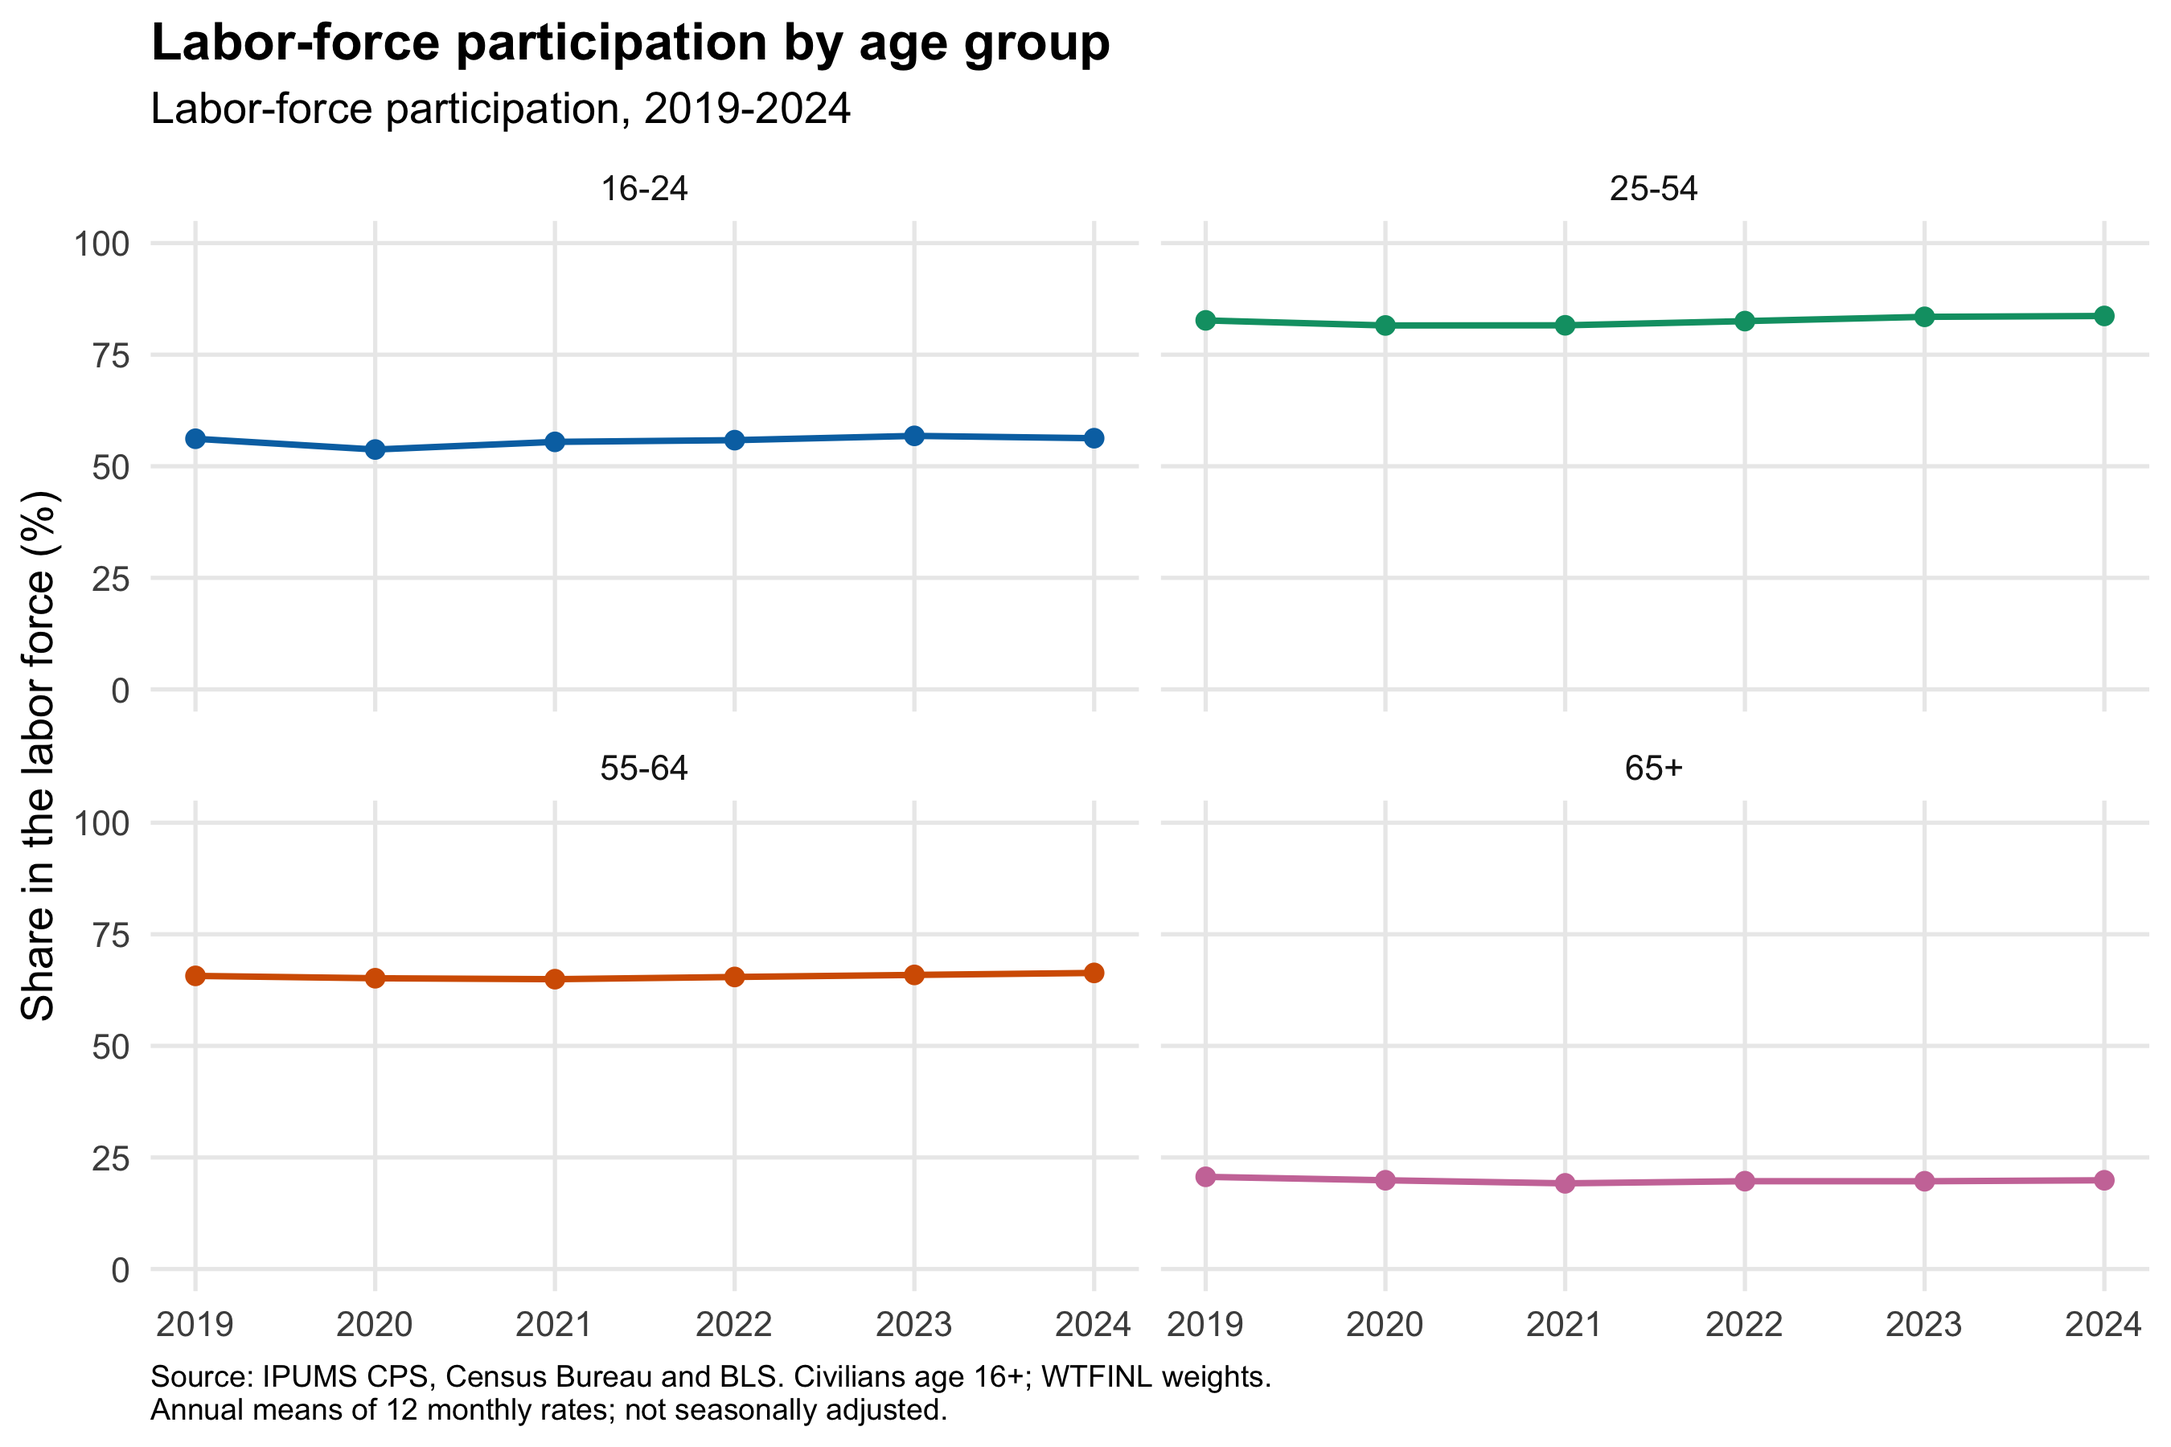
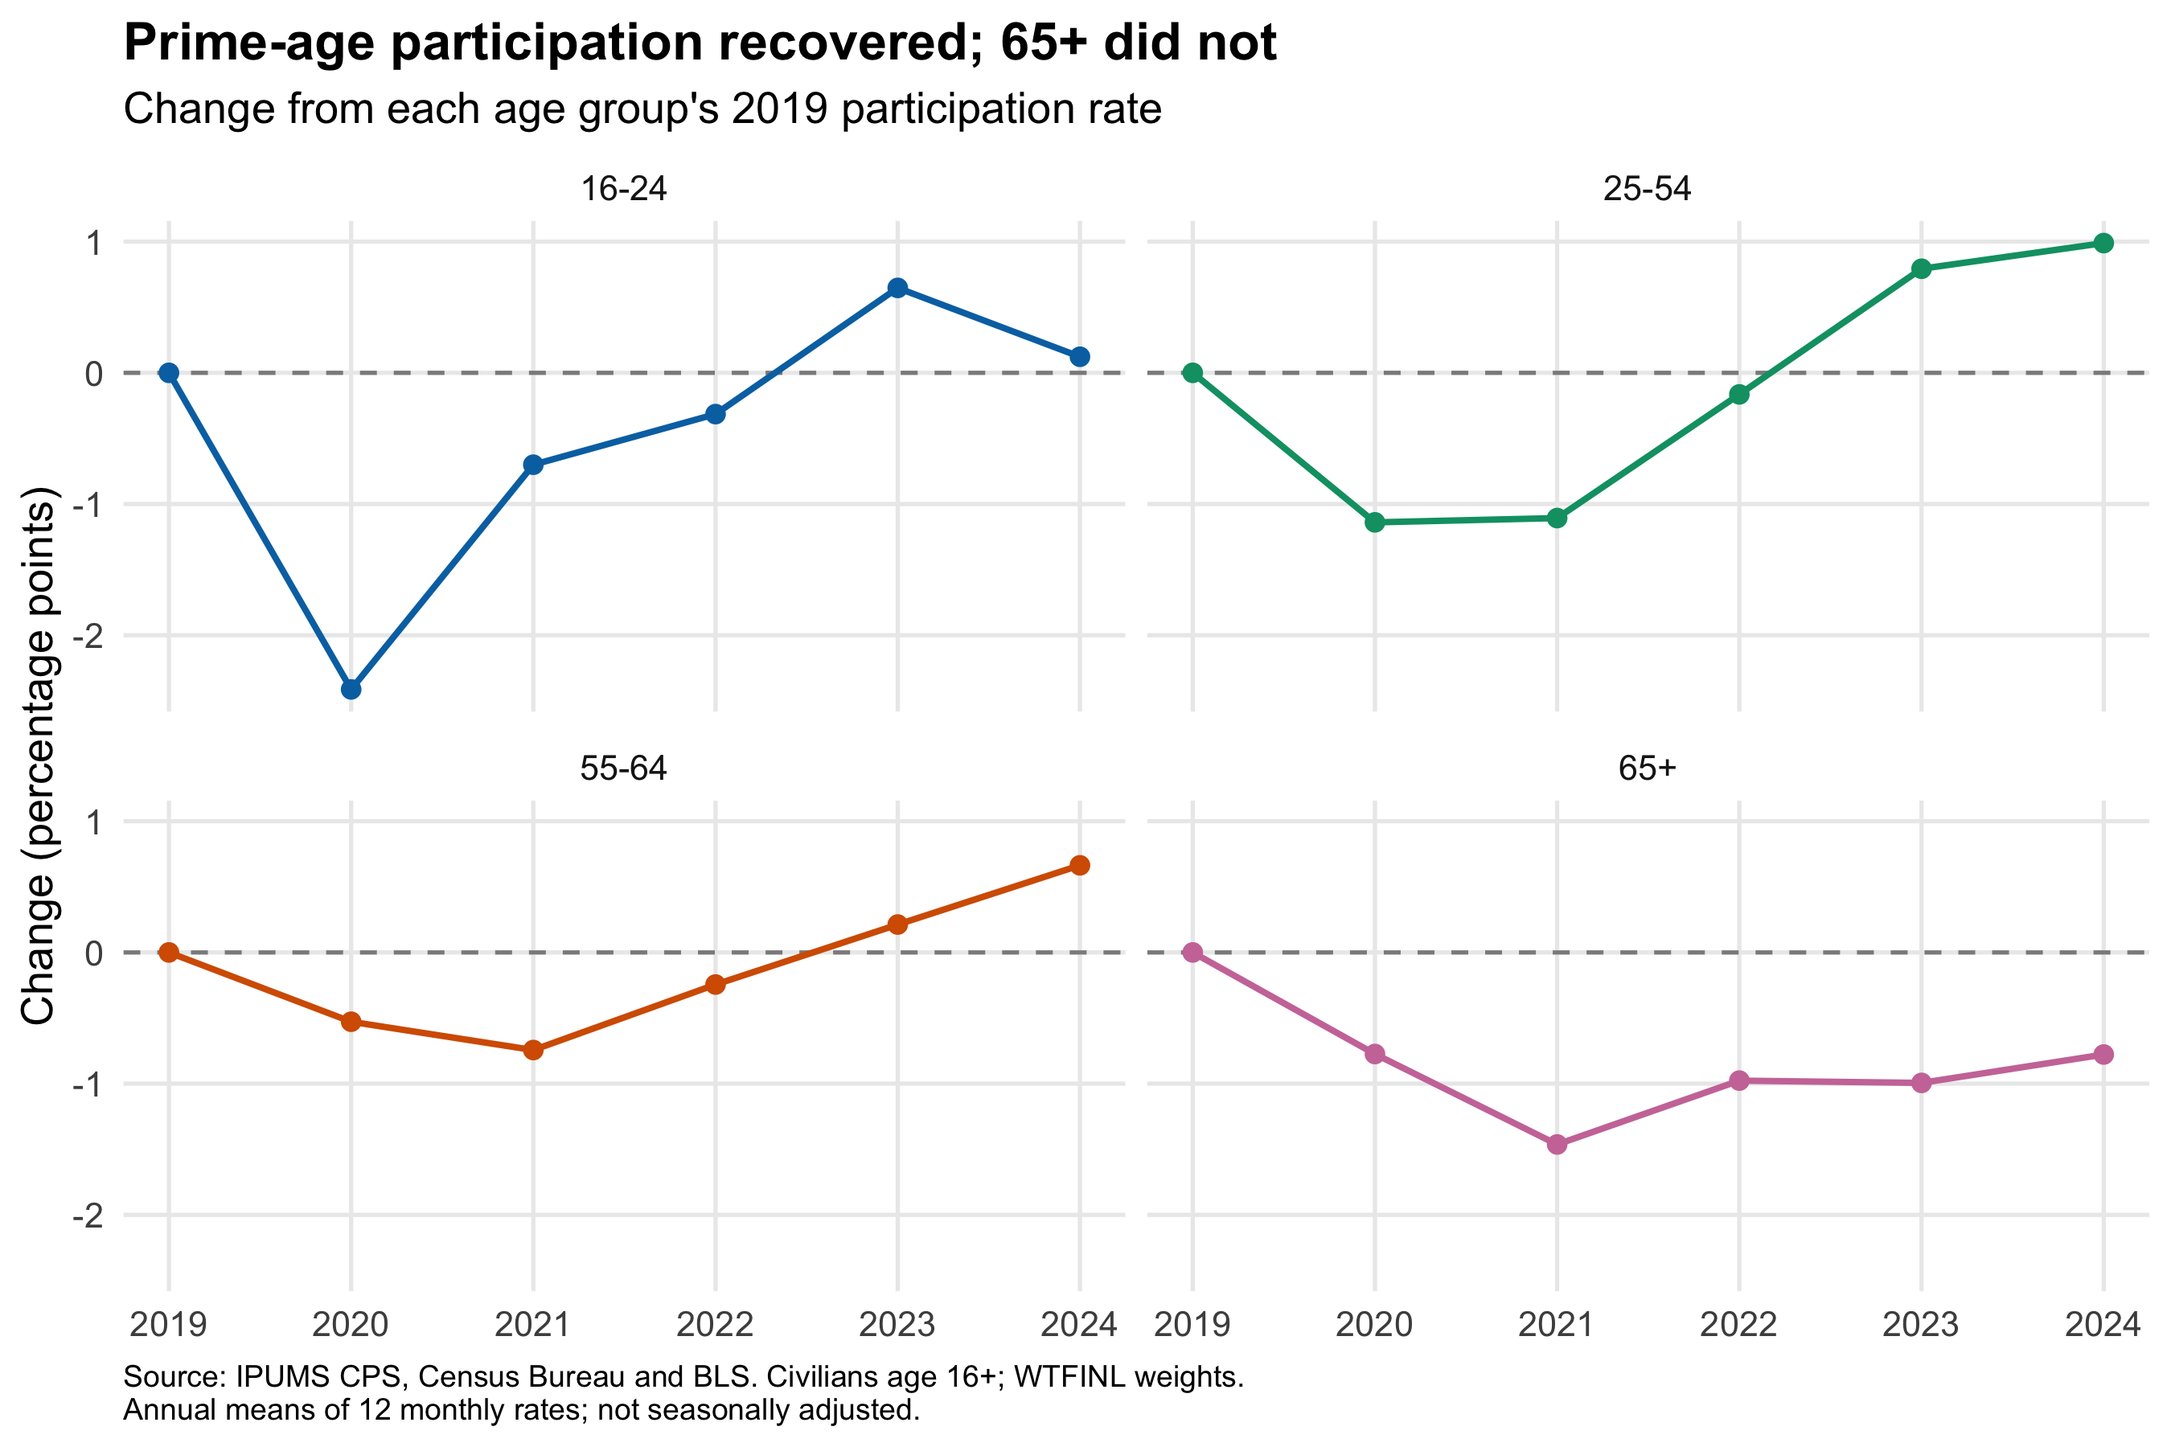
Address Blog Post 3 rubric: computed values, clearer trends, replication docs

diff --git a/docs/posts/cps-participation/index.html b/docs/posts/cps-participation/index.html
@@ -212,30 +212,30 @@ pre > code.sourceCode > span > a:first-child::before { text-decoration: underlin
 <section id="measuring-participation-consistently" class="level2">
 <h2 class="anchored" data-anchor-id="measuring-participation-consistently">Measuring participation consistently</h2>
 <p>Labor-market participation is measured in a consistent way. The analysis includes all 72 Basic Monthly CPS samples from January 2019 through December 2024. It includes civilians age 16 or older with a defined labor-force status and a positive sampling weight. It includes March Basic but excludes the separate ASEC supplement.</p>
-<p>For each month and age group, I divide the weighted number in the labor force by the weighted eligible population. I use <a href="https://cps.ipums.org/cps-action/variables/WTFINL">WTFINL</a>, the Basic Monthly person weight, so observations represent different numbers of people. <a href="https://cps.ipums.org/cps-action/variables/LABFORCE">LABFORCE</a> identifies participation. Each annual estimate then averages the twelve monthly rates equally. These are descriptive, unadjusted estimates, not seasonally adjusted headline statistics.</p>
+<p>For each month and age group, I divide the weighted number in the labor force by the weighted eligible population. I use <a href="https://cps.ipums.org/cps-action/variables/WTFINL">WTFINL</a>, the Basic Monthly person weight, so observations represent different numbers of people. <a href="https://cps.ipums.org/cps-action/variables/LABFORCE">LABFORCE</a> identifies participation. Each annual estimate then averages the twelve monthly rates equally. These are descriptive, unadjusted estimates. IPUMS recommends <a href="https://cps.ipums.org/cps-action/variables/COMPWT">COMPWT</a> for replicating published BLS labor-force estimates; WTFINL is appropriate for most Basic Monthly analyses, so these rates need not match BLS headline figures.</p>
 </section>
-<section id="first-compare-participation-levels" class="level2">
-<h2 class="anchored" data-anchor-id="first-compare-participation-levels">First, compare participation levels</h2>
+<section id="first-compare-recovery-paths" class="level2">
+<h2 class="anchored" data-anchor-id="first-compare-recovery-paths">First, compare recovery paths</h2>
 <div class="cell">
 <details class="code-fold">
 <summary>Code</summary>
 <div class="code-copy-outer-scaffold"><div class="sourceCode cell-code" id="cb1"><pre class="sourceCode r code-with-copy"><code class="sourceCode r"><span id="cb1-1"><a href="#cb1-1" aria-hidden="true" tabindex="-1"></a>knitr<span class="sc">::</span><span class="fu">include_graphics</span>(<span class="fu">file.path</span>(POST_DIR, <span class="st">"results"</span>, <span class="st">"figures"</span>, <span class="st">"trends.png"</span>))</span></code></pre></div><button title="Copy to Clipboard" class="code-copy-button"><i class="bi"></i></button></div>
 </details>
 <div class="cell-output-display">
-<div id="fig-trends" class="quarto-float quarto-figure quarto-figure-center anchored" alt="Four panels showing annual labor-force participation for ages 16-24, 25-54, 55-64, and 65 and older.">
+<div id="fig-trends" class="quarto-float quarto-figure quarto-figure-center anchored" alt="Four panels showing changes in participation from 2019 for four age groups, with a shared scale and a zero baseline.">
 <figure class="quarto-float quarto-float-fig figure">
 <div aria-describedby="fig-trends-caption-0ceaefa1-69ba-4598-a22c-09a6ac19f8ca">
-<img src="results/figures/trends.png" class="img-fluid figure-img" alt="Four panels showing annual labor-force participation for ages 16-24, 25-54, 55-64, and 65 and older.">
+<img src="results/figures/trends.png" class="img-fluid figure-img" alt="Four panels showing changes in participation from 2019 for four age groups, with a shared scale and a zero baseline.">
 </div>
 <figcaption class="quarto-float-caption-bottom quarto-float-caption quarto-float-fig" id="fig-trends-caption-0ceaefa1-69ba-4598-a22c-09a6ac19f8ca">
-Figure&nbsp;1: Annual means of monthly weighted participation rates. Identical vertical scales make age-group levels comparable.
+Figure&nbsp;1: Annual means of monthly weighted participation rates, expressed as changes from 2019. Panels use identical percentage-point scales; zero marks each group’s baseline.
 </figcaption>
 </figure>
 </div>
 </div>
 </div>
-<p>Figure 1 shows participation across four stages of working life. Among adults aged 25–54, participation was 82.7% in 2019 and 83.7% in 2024. For adults aged 65 and older, the corresponding estimates were 20.7% and 19.9%.</p>
-<p>All four groups declined between 2019 and 2020. Their subsequent paths diverged: participation among adults aged 25–54 exceeded its baseline by 2023, while the rate for adults aged 65 and older remained below it throughout 2020–2024. The common vertical scale shows large differences in participation levels; the next figure makes the smaller changes easier to see.</p>
+<p>Figure 1 shows changes from 2019 across four stages of working life. Among adults aged 25–54, participation was 82.7% in 2019 and 83.7% in 2024. For adults aged 65 and older, the corresponding estimates were 20.7% and 19.9%.</p>
+<p>All four groups declined between 2019 and 2020. Their subsequent paths diverged: participation among adults aged 25–54 exceeded its baseline by 2023, while the rate for adults aged 65 and older remained below it throughout 2020–2024. The shared change scale makes the declines and recovery paths visible, but gives up a direct comparison of participation levels. Figure 2 focuses on the final year.</p>
 </section>
 <section id="next-compare-changes-against-the-same-baseline" class="level2">
 <h2 class="anchored" data-anchor-id="next-compare-changes-against-the-same-baseline">Next, compare changes against the same baseline</h2>
@@ -257,7 +257,7 @@ Figure&nbsp;2: Participation in 2024 minus participation in 2019. Zero indicates
 </div>
 </div>
 </div>
-<p>Figure 2 plots each group on a common change metric. Adults aged 25 to 54 recorded the highest rise, roughly 1.0 percentage point. The age group 55–64 saw an increase of 0.7 points, while those aged 16–24 were approximately unchanged, gaining just 0.1 points. Adults aged 65 and older were the only group below their 2019 value, down by 0.8 points.</p>
+<p>Figure 2 plots each group on a common change metric. Adults aged 25 to 54 recorded the highest rise, roughly 1.0 percentage points. The age group 55–64 saw an increase of 0.7 points, while those aged 16–24 were approximately unchanged, gaining just 0.1 points. Adults aged 65 and older were the only group below their 2019 value, down by 0.8 points.</p>
 <p>Thus, recovery was uneven. It would be inaccurate to say that all older adults had the same experience: for instance, the age group 55 to 64 exceeded its baseline while the group aged 65 and older did not. These comparisons describe outcomes, but they do not identify whether retirement, health, schooling, or care responsibilities caused the differences.</p>
 </section>
 <section id="finally-hold-the-age-mix-fixed" class="level2">

diff --git a/docs/index.html b/docs/index.html
@@ -212,10 +212,10 @@ window.Quarto = {
 
 <div class="quarto-listing quarto-listing-container-default" id="listing-listing">
 <div class="list quarto-listing-default">
-<div class="quarto-post image-right" data-index="0" data-categories="bGFib3IlMjBtYXJrZXQlMkNDUFMlMkNkYXRhJTIwdmlzdWFsaXphdGlvbg==" data-listing-date-sort="1790481600000" data-listing-file-modified-sort="1790557504694" data-listing-date-modified-sort="NaN" data-listing-reading-time-sort="5" data-listing-word-count-sort="942">
+<div class="quarto-post image-right" data-index="0" data-categories="bGFib3IlMjBtYXJrZXQlMkNDUFMlMkNkYXRhJTIwdmlzdWFsaXphdGlvbg==" data-listing-date-sort="1790481600000" data-listing-file-modified-sort="1790625836000" data-listing-date-modified-sort="NaN" data-listing-reading-time-sort="6" data-listing-word-count-sort="1032">
 <div class="thumbnail"><a href="./posts/cps-participation/index.html" class="no-external">
 
-<p class="card-img-top"><img loading='lazy' src="posts/cps-participation/results/figures/trends.png" alt="Four panels showing annual labor-force participation for ages 16-24, 25-54, 55-64, and 65 and older."  class="thumbnail-image card-img"/></p>
+<p class="card-img-top"><img loading='lazy' src="posts/cps-participation/results/figures/trends.png" alt="Four panels showing changes in participation from 2019 for four age groups, with a shared scale and a zero baseline."  class="thumbnail-image card-img"/></p>
 
 </a></div>
 <div class="body">

diff --git a/posts/cps-participation/README.md b/posts/cps-participation/README.md
@@ -1,6 +1,6 @@
 # Blog Post 3: Did labor-force participation recover equally across age groups?
 
-Completed analysis of the supplied IPUMS CPS extract, with three figures and a Quarto post. Publication is a separate step.
+This post asks whether labor-force participation returned to its 2019 level equally across age groups. It uses Basic Monthly CPS data from 2019 through 2024 and three figures to connect recovery within age groups to changes in the overall population mix.
 
 ## Reproduce
 
@@ -23,13 +23,15 @@ The first command imports the raw data and regenerates all aggregate tables, fig
 
 The denominator is civilians age 16+ with LABFORCE 1 or 2 and positive finite WTFINL. Monthly participation is `sum(WTFINL * (LABFORCE == 2)) / sum(WTFINL)`. Annual estimates average 12 monthly rates equally. Counts are person-month observations, not unique people. The XML supplies column locations and implied decimal scaling; the importer applies scaling once.
 
-Figure 1 compares age-group levels on common 0–100% axes. Figure 2 compares 2024 with 2019 in percentage points. Figure 3 fixes the four age-group population shares to those of the matching calendar month in 2019, then averages standardized monthly rates. This is a descriptive composition adjustment, not a causal estimate; changes within age bands remain.
+Figure 1 compares changes from each age group’s 2019 rate on common percentage-point axes. This makes recovery paths easier to compare, while the text reports selected participation levels. Figure 2 compares 2024 with 2019 in percentage points. Figure 3 fixes the four age-group population shares to those of the matching calendar month in 2019, then averages standardized monthly rates. This is a descriptive composition adjustment, not a causal estimate; changes within age bands remain.
 
-Validation confirms 72 months, 288 month/age cells, no duplicate YEAR/MONTH/SERIAL/PERNUM identifiers, March Basic flags, no ASEC records, and valid rates. The input has 7,582,963 records; 6,146,546 meet the age/status criteria, all with positive finite weights. Independent streaming calculations from the original data agree with all 24 annual age-group estimates within 1e-12. All three generated charts were visually inspected. These custom estimates are not seasonally adjusted and need not exactly match official BLS series. No statistical significance or causality is claimed.
+Before estimating rates, `analysis.R` checks that all 72 months are present, rejects duplicate YEAR/MONTH/SERIAL/PERNUM identifiers, excludes ASEC records, and requires March Basic flags. It also checks that all month/age cells exist, that rates are finite and between zero and one, and that the observed and standardized series agree in 2019. The sample counts at each filtering step are saved in `results/tables/audit.csv`.
+
+The estimates are not seasonally adjusted and are not intended to reproduce official BLS series. The post describes differences without claiming statistical significance or causality.
 
 ## Data provenance
 
-User-supplied `cps_00001.dat` and `cps_00001.xml`; XML creation date September 27, 2026. The extract covers January 2019–December 2024 Basic Monthly samples. The unchanged raw files are ignored by Git. Data SHA-256:
+The analysis reads `cps_00001.dat` using its matching `cps_00001.xml` codebook, dated September 27, 2026. The extract covers January 2019–December 2024 Basic Monthly samples. The unchanged raw files are ignored by Git. Data SHA-256:
 
[1 lines of base64/hex data omitted]
 

diff --git a/README.md b/README.md
@@ -10,7 +10,6 @@ Blog posts by Yipin Zhang (grenaz@sas.upenn.edu), Fall 2026.
 |---|------|----------------------|
 | 1 | [What is a p-value?](https://yipin-grena.github.io/aeds6400-blog/posts/p-values/) | `posts/p-values/` |
 | 2 | [Python leads technology mentions in Hacker News hiring posts](https://yipin-grena.github.io/aeds6400-blog/posts/web-scraping/) | [`posts/web-scraping/`](posts/web-scraping/README.md) |
-
 | 3 | [Did labor-force participation recover equally across age groups?](https://yipin-grena.github.io/aeds6400-blog/posts/cps-participation/) | [`posts/cps-participation/`](posts/cps-participation/README.md) |
 
 ## Repository layout
@@ -23,16 +22,17 @@ the rest of the site.
 aeds6400-blog/
 ├── _quarto.yml              site configuration
 ├── index.qmd                home page and post listing
-├── docs/                    rendered site served by GitHub Pages
+├── docs/                    rendered GitHub Pages site
 └── posts/
-    ├── p-values/
-    └── web-scraping/        Blog Post 2 (see its README)
-        ├── index.qmd        the post
-        ├── README.md        data sources, ethics, replication steps
-        ├── R/               01_scrape, 02_clean, 03_analyze
-        ├── data/raw/        scraped CSV, provenance, cached HTML
-        ├── data/processed/  analysis-ready tables
-        └── results/         figures and tables
+    ├── p-values/            Blog Post 1
+    ├── web-scraping/        Blog Post 2: R scripts, saved data, results
+    └── cps-participation/   Blog Post 3
+        ├── index.qmd        post with computed values
+        ├── README.md        methods and replication
+        ├── run.R            analysis entry point
+        ├── R/analysis.R     import, validation, weighting, figures
+        ├── data/raw/        local IPUMS extract, excluded from Git
+        └── results/         aggregate tables, figures, saved R results
 ```
 
 ## Reproducing a post
@@ -46,14 +46,21 @@ source(here::here("posts", "web-scraping", "R", "02_clean.R"))
 source(here::here("posts", "web-scraping", "R", "03_analyze.R"))
 ```
 
-Step 1 reads committed HTML snapshots rather than contacting the source site,
+For Blog Post 2, step 1 reads committed HTML snapshots rather than contacting the source site,
 so the analysis reproduces with no network requests. Per-post details,
 including data provenance and the scraping ethics checklist, are in each
 post's own README.
+
+For Blog Post 3, obtain the IPUMS extract described in [its README](posts/cps-participation/README.md), then run from the repository root:
+
+```sh
+Rscript posts/cps-participation/run.R
+```
+
+This regenerates the aggregate results and charts. Rendering uses the committed aggregate results, so the raw microdata are only needed to rerun the analysis.
 
 Render the site with `quarto render` from the repository root.
 
 ## Environment
 
-R 4.5.1. Package versions used for the most recent run of Blog Post 2 are
-recorded in `posts/web-scraping/results/session-info.txt`.
+R 4.5.1. Package versions are recorded separately in `posts/web-scraping/results/session-info.txt` and `posts/cps-participation/results/session-info.txt`. Each post README lists its dependencies and data requirements.
